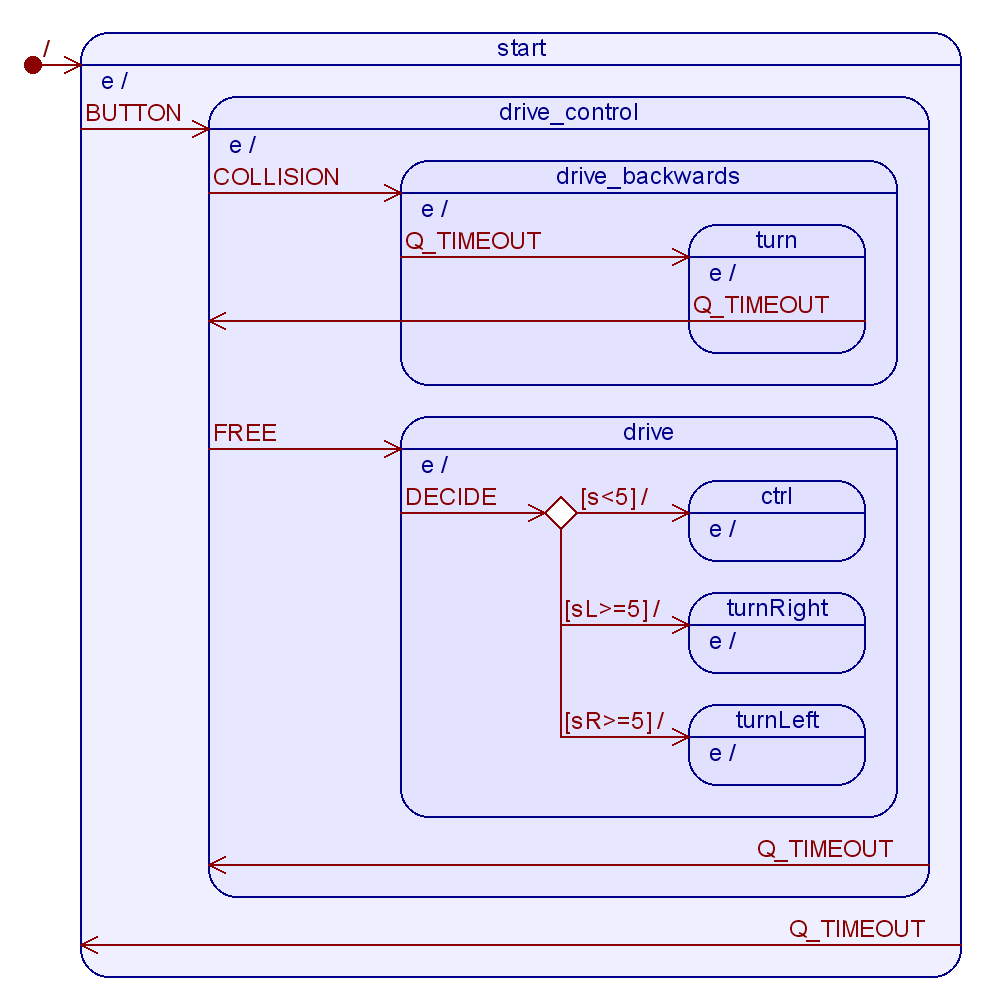
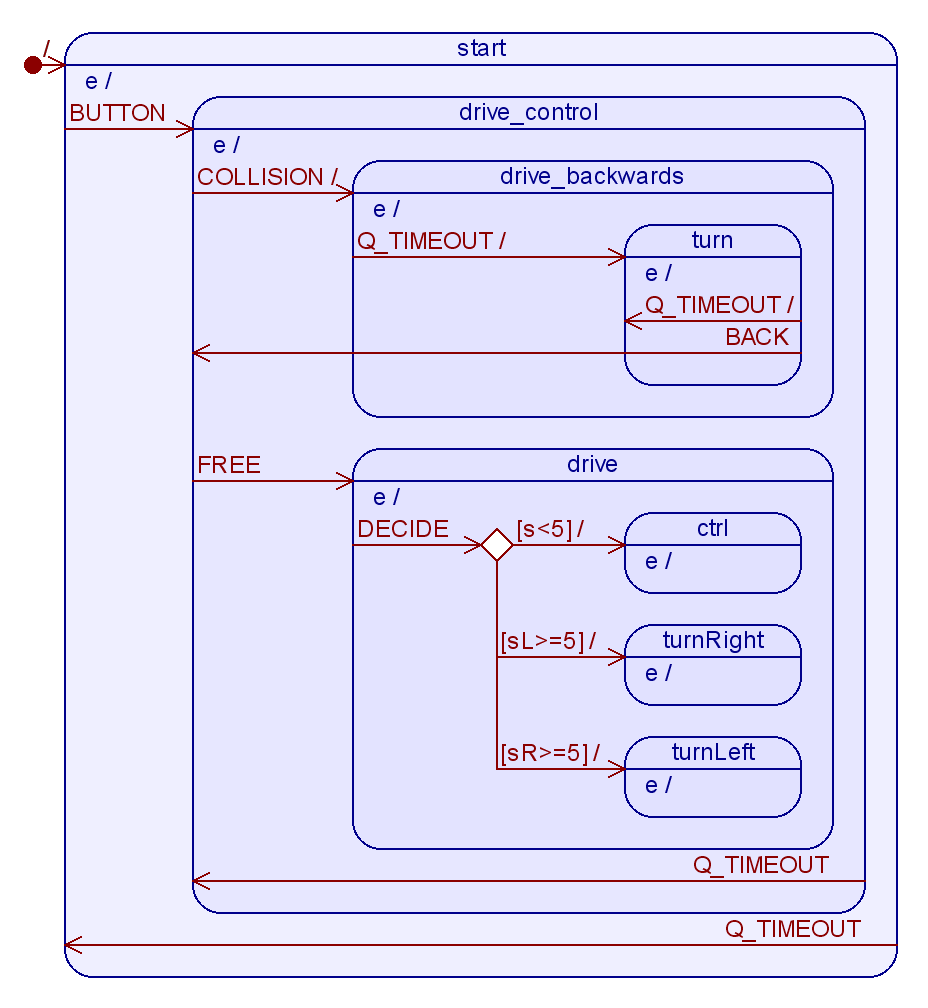
found the problem

diff --git a/Zumo/misc/Zumo Programmierung.mm b/Zumo/misc/Zumo Programmierung.mm
@@ -716,7 +716,7 @@
 </node>
 </node>
 </node>
-<node CREATED="1564504139387" ID="ID_173242604" MODIFIED="1564506034340" POSITION="right" TEXT="Probleme">
+<node CREATED="1564504139387" ID="ID_173242604" MODIFIED="1564842548407" POSITION="right" TEXT="Probleme">
 <richcontent TYPE="NOTE"><html>
   <head>
     
@@ -735,23 +735,8 @@
       - Funkt die Display-Benutzung dazwischen? Dann mal Display ausschalten und schauen, ob sich die Zeiten &#228;ndern. Wenn ja, QF_INT_DISABLE benutzen.
     </p>
   </body>
-</html></richcontent>
-<node CREATED="1564504899714" ID="ID_1096243171" MODIFIED="1564746716599" TEXT="drive_control arbeitet nach collision nicht mehr">
-<richcontent TYPE="NOTE"><html>
-  <head>
-    
-  </head>
-  <body>
-    <p>
-      - Q_TIMEOUT schaltet zur&#252;ck (Beweis: yellow led geht aus), aber in drvie_control arbeitet nichts (Beweis: eingef&#252;gte debug-Zeilen: ledGreen(1) und lcd_clear haben keinen Effekt.
-    </p>
-    <p>
-      - mit der Benutzung von 4 levels hat es auch nichtzu tun... bei 3 funzt es auch nicht
-    </p>
-  </body>
 </html>
 </richcontent>
-</node>
 </node>
 </node>
 </map>

diff --git a/Zumo/misc/messen_entscheiden_regeln.mm b/Zumo/misc/messen_entscheiden_regeln.mm
@@ -47,7 +47,7 @@
     </p>
   </body>
 </html></richcontent>
-<node CREATED="1558632145118" ID="ID_757919703" MODIFIED="1564742724557" POSITION="right" TEXT="a &lt; -1000">
+<node CREATED="1558632145118" ID="ID_757919703" MODIFIED="1564834443599" POSITION="right" TEXT="a &lt; -1000">
 <richcontent TYPE="NOTE"><html>
   <head>
     
